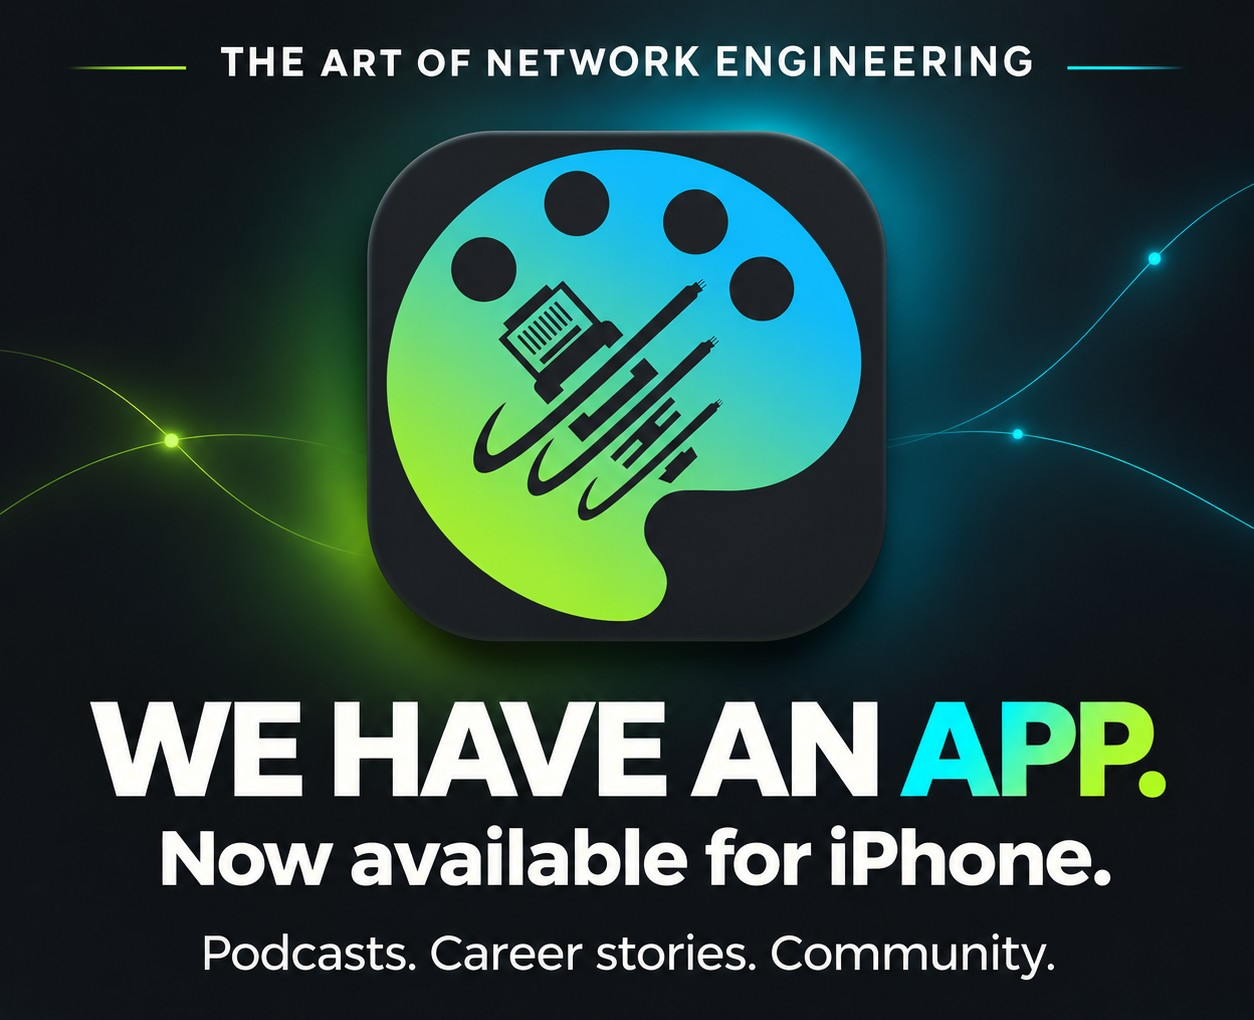
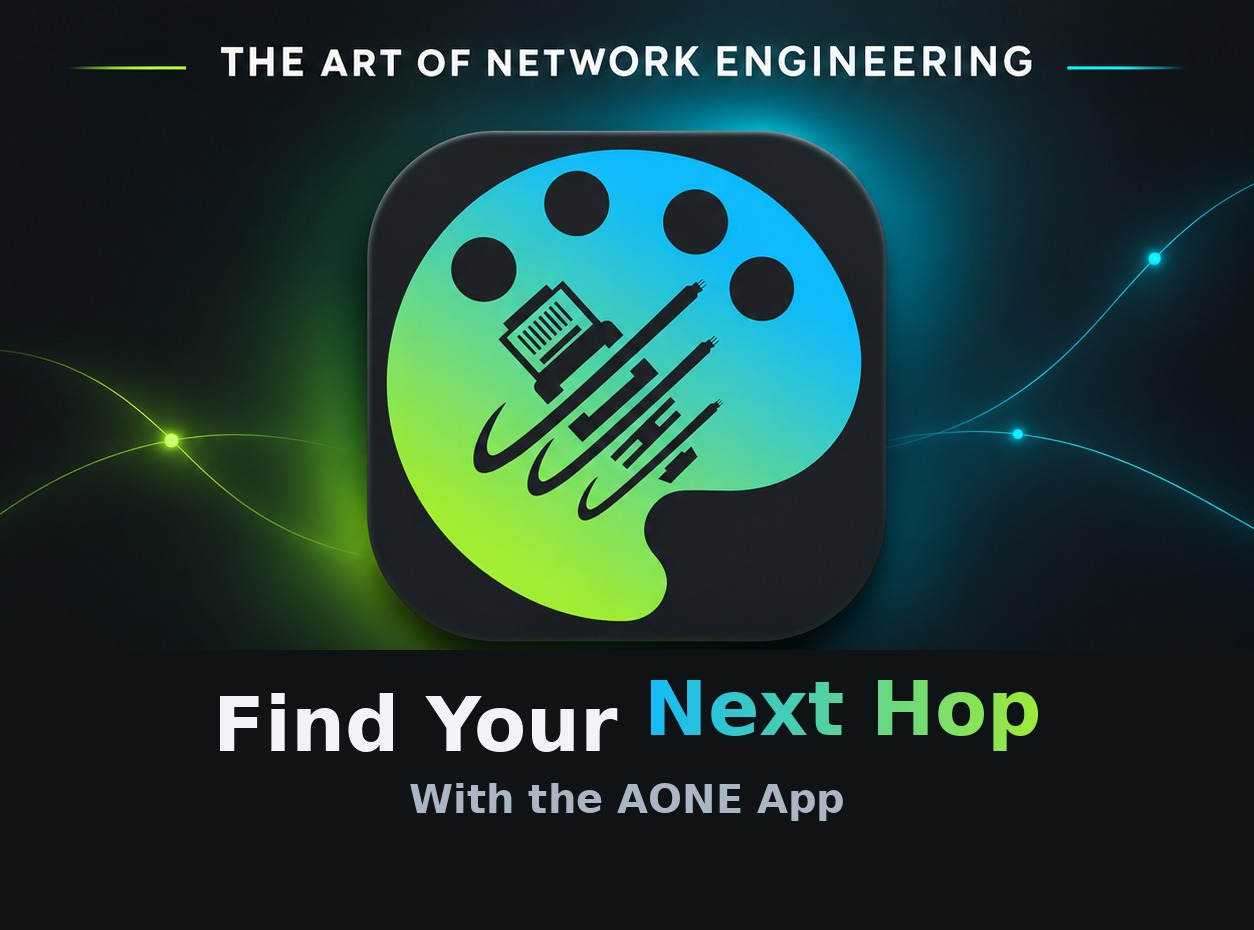
Promo image: "Find Your Next Hop with the AONE App"
Andy, from the app's own home screen: swap the image's headline for
the app's actual tagline instead of generic "We have an app" copy.
Kept the icon and background, replaced the text region, gave "Next
Hop" the same blue-to-green gradient as the icon itself. Updated alt
text and the image's real height (1254x930, was 1254x1020).

Tests: 157/157 pass.

Claude-Session: https://claude.ai/code/session_01SEFLirwVnkBWyEbvxPXuyP

diff --git a/app/page.tsx b/app/page.tsx
@@ -50,9 +50,9 @@ export default function Home() {
           >
             <Image
               src="/app-promo.jpg"
-              alt="The Art of Network Engineering app icon. We have an app, now available for iPhone: podcasts, career stories, community."
+              alt="The Art of Network Engineering app icon. Find Your Next Hop with the AONE app."
               width={1254}
-              height={1020}
+              height={930}
               className="h-auto w-full"
             />
             <div className="bg-surface p-4 flex items-center justify-center gap-2 text-sm font-semibold text-accent-green">
